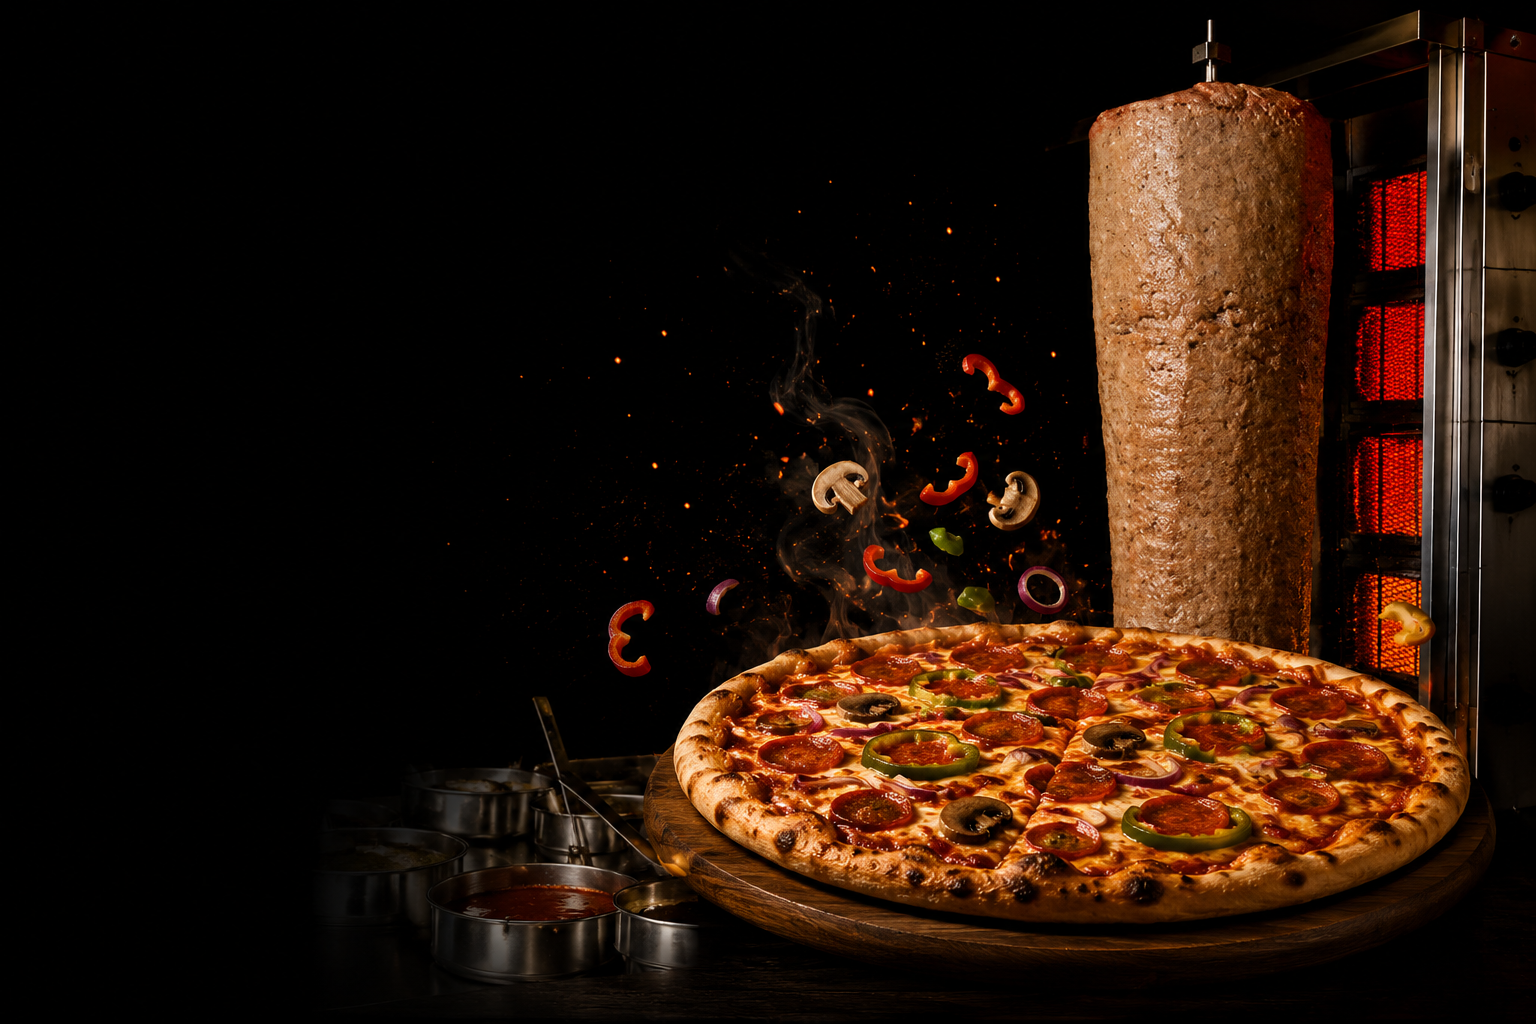
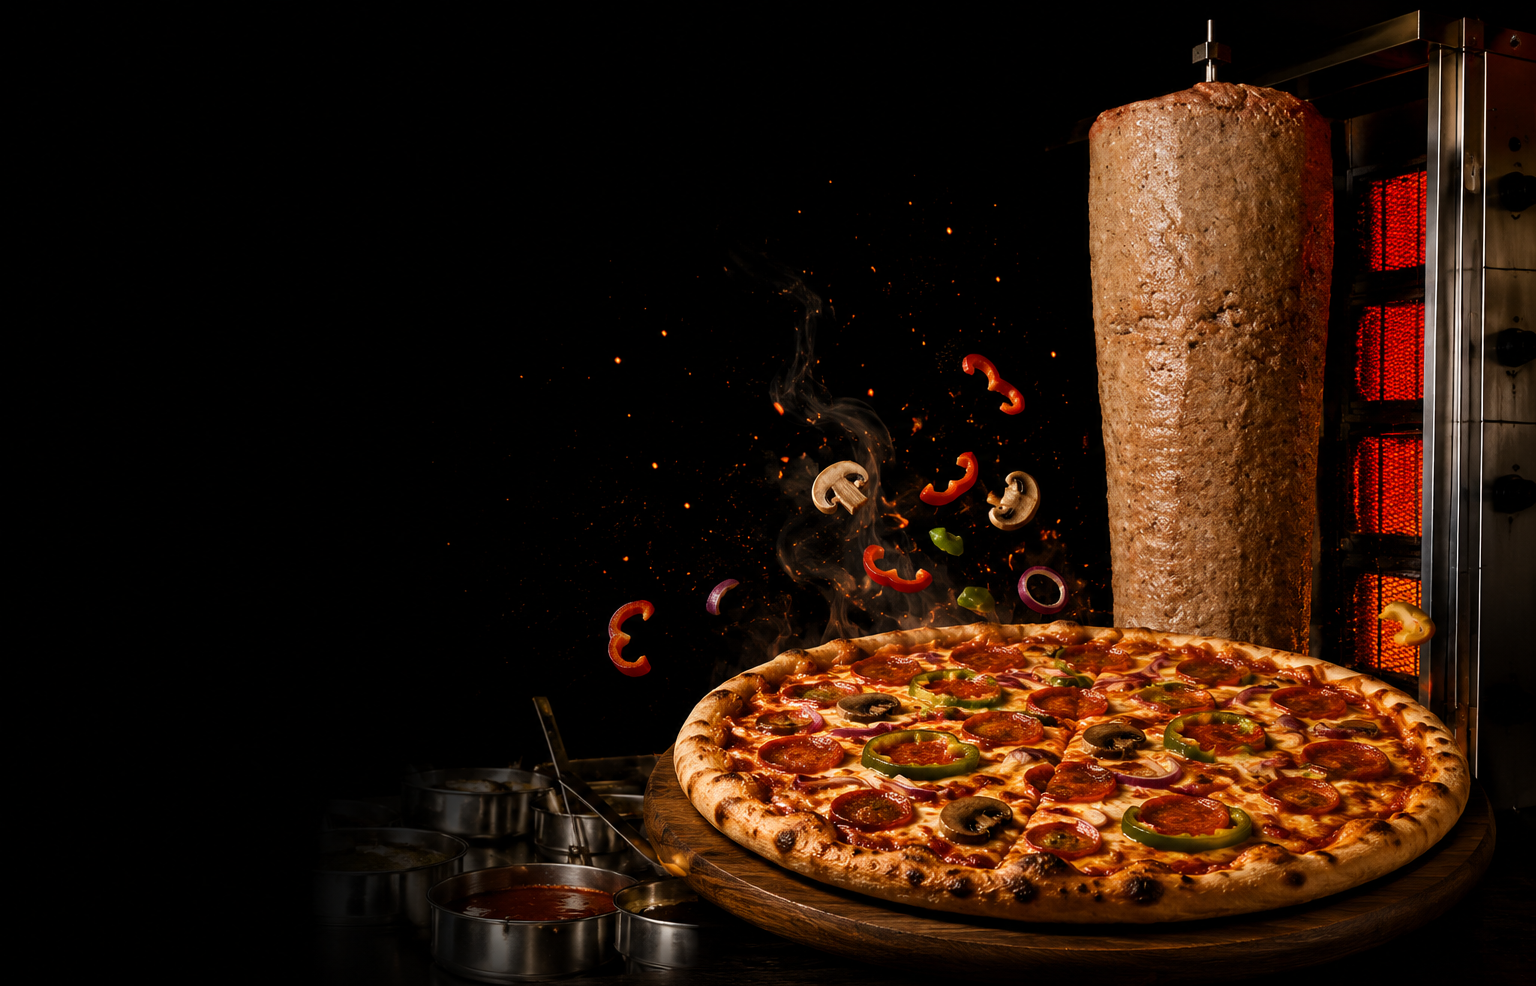
acomb: trim the hero's dead bottom, tighten the offer card
Hero: the asset is cropped 1024 to 986 rows. Measured, there is no content
below y=986 - the board edge and the sauce pots finish there - and because
the image is bottom-anchored those dead rows were sitting between the food
and the band's bottom edge as a black strip, 37px at 1440 and 54 at 1280.
Cutting them lands the last real row of the photo on the band's bottom
edge, so the gap closes and the whole composition drops by the same amount:
the cut and the downward shift are one edit, not two. The size caps are
scaled by the same 986/1024 (60vw to 57.8vw, 900 to 867) so the food keeps
the size it had - leaving them would have magnified it 4% - and the phone
banner's aspect-ratio follows the asset to 1536/986. The whole pizza, board
and pots are still visible; nothing was cut into.

Offer card: 280x180 down to 250x151, a quarter less area, centred, with a
1px white border in place of the 2px faint one, and dropped from y=150 to
186. Making it narrower alone made it TALLER - "10% off" and "every order
over £12" shared a flex row and needed 271px of the 222 available, so it
broke over three lines. Stacking them puts each on its own line and the box
ends up shorter than the wide version it replaced.

Re-checked what the card hides now that both it and the image moved: mean
brightness 2.58 at the tightest width, 0.03 at 1920, still black and embers
rather than food. All six shops build clean.

Claude-Session: https://claude.ai/code/session_01AkuDUn48ty3rdJUAqG8WdC

diff --git a/data/shops/acomb-pizza-kebab/index.html b/data/shops/acomb-pizza-kebab/index.html
@@ -211,10 +211,19 @@
        900 above 1500) however tall the band gets.
        Anchored BOTTOM rather than centre so the slack appears above the food,
        where the asset is pure black and the nav sits, instead of being split
-       top and bottom and leaving a visible edge under the counter. */
+       top and bottom and leaving a visible edge under the counter.
+
+       The asset was cropped 1024 -> 986 rows: below y=986 there is nothing, and
+       since it is bottom-anchored those dead rows were sitting between the
+       board and the band's bottom edge as a black strip (37px at 1440). Cutting
+       them lands the last real row of the photo ON the band's bottom edge, so
+       the gap closes and the whole composition drops by the same amount — the
+       cut and the shift are the same edit, not two. The caps are scaled by the
+       same 986/1024 (60vw -> 57.8vw, 900 -> 867) so the food keeps the size it
+       had; leaving them alone would have magnified it by 4%. */
     .hero-media{
       position:absolute;inset:0;
-      background:#000 url("/assets/final-hero.png") right bottom/auto min(100%,60vw,900px) no-repeat;
+      background:#000 url("/assets/final-hero.png") right bottom/auto min(100%,57.8vw,867px) no-repeat;
     }
     /* Left-only vignette: guarantees text contrast on the dark-left even if the
        framing shifts, and is fully clear (alpha 0) across the food from 54% on.
@@ -346,24 +355,30 @@
        one and change the other, or the page advertises a discount the server
        will not apply. */
     .hero-offer{
-      display:block;max-width:440px;margin-top:26px;
-      background:rgba(18,16,14,.94);border:2px solid var(--line);border-radius:16px;
-      padding:14px 18px 15px;transition:border-color .18s ease;
+      display:block;max-width:440px;margin-top:26px;text-align:center;
+      background:rgba(18,16,14,.94);border:1px solid rgba(255,255,255,.62);border-radius:14px;
+      padding:11px 14px 12px;transition:border-color .18s ease;
     }
-    .hero-offer:hover{border-color:rgba(255,255,255,.24)}
+    .hero-offer:hover{border-color:rgba(255,255,255,.9)}
     .ho-eyebrow{
       display:block;font-family:var(--label);font-weight:500;font-size:.82rem;
       letter-spacing:1.5px;text-transform:uppercase;color:var(--red-text);
     }
-    .ho-main{display:flex;align-items:baseline;gap:12px;flex-wrap:wrap;margin-top:5px}
+    /* A stack, not a flex row. Side by side, "10% off" (~90px) plus the
+       condition (~172px) needed 271px of the 222px available once the card came
+       down to 250, so it broke across three lines and made the box TALLER than
+       the wide version it replaced. Stacked, each line sits on its own and the
+       card is shorter than either. */
+    .ho-main{margin-top:2px}
     /* 2.1rem = 33.6px, so --red clears the 3:1 large-text bar; the small print
        below uses --muted and the eyebrow --red-text for the same reason. */
-    .ho-main b{font-family:var(--display);font-weight:400;font-size:2.1rem;line-height:1;color:var(--red)}
+    .ho-main b{display:block;font-family:var(--display);font-weight:400;font-size:2.1rem;line-height:1;color:var(--red)}
     .ho-main span{
-      font-family:var(--label);font-weight:500;font-size:1.15rem;
+      display:block;margin-top:4px;
+      font-family:var(--label);font-weight:500;font-size:1.02rem;
       text-transform:uppercase;letter-spacing:.02em;color:#fff;
     }
-    .ho-note{display:block;margin-top:7px;font-size:.83rem;line-height:1.45;color:var(--muted)}
+    .ho-note{display:block;margin-top:6px;font-size:.78rem;line-height:1.4;color:var(--muted)}
     /* Float it into the black gap between the headline and the doner rather
        than leaving it in flow, where it added ~148px to a band that is already
        content-driven and pushed the whole page down.
@@ -382,7 +397,11 @@
        breakpoint the card returns to flow, which is what the phone layout wants
        anyway. */
     @media(min-width:1240px){
-      .hero-offer{position:absolute;left:584px;top:150px;width:280px;max-width:none;margin-top:0}
+      /* 250 not 280, and down to 186 from 150, at the owner's request — the copy
+         is short enough that the wider box carried dead space either side once
+         it was centred. Still clears the doner: at the 1240px floor the card
+         now ends at 834 against a doner edge at ~915. */
+      .hero-offer{position:absolute;left:584px;top:186px;width:250px;max-width:none;margin-top:0}
     }
 
     .hero-feats{
@@ -678,7 +697,7 @@
          matching aspect they are identical, and if the asset is ever swapped
          again this fails to letterbox on black (invisible here) instead of
          silently cropping the food. */
-      .hero-media{position:relative;height:auto;aspect-ratio:3/2;background-size:contain;background-position:center}
+      .hero-media{position:relative;height:auto;aspect-ratio:1536/986;background-size:contain;background-position:center}
       .hero-media::after{display:none}
       /* 24px bottom, not 44: with 54px on top of the section below, the
          hero→heading boundary measured 104.5px on a phone against 55px between
